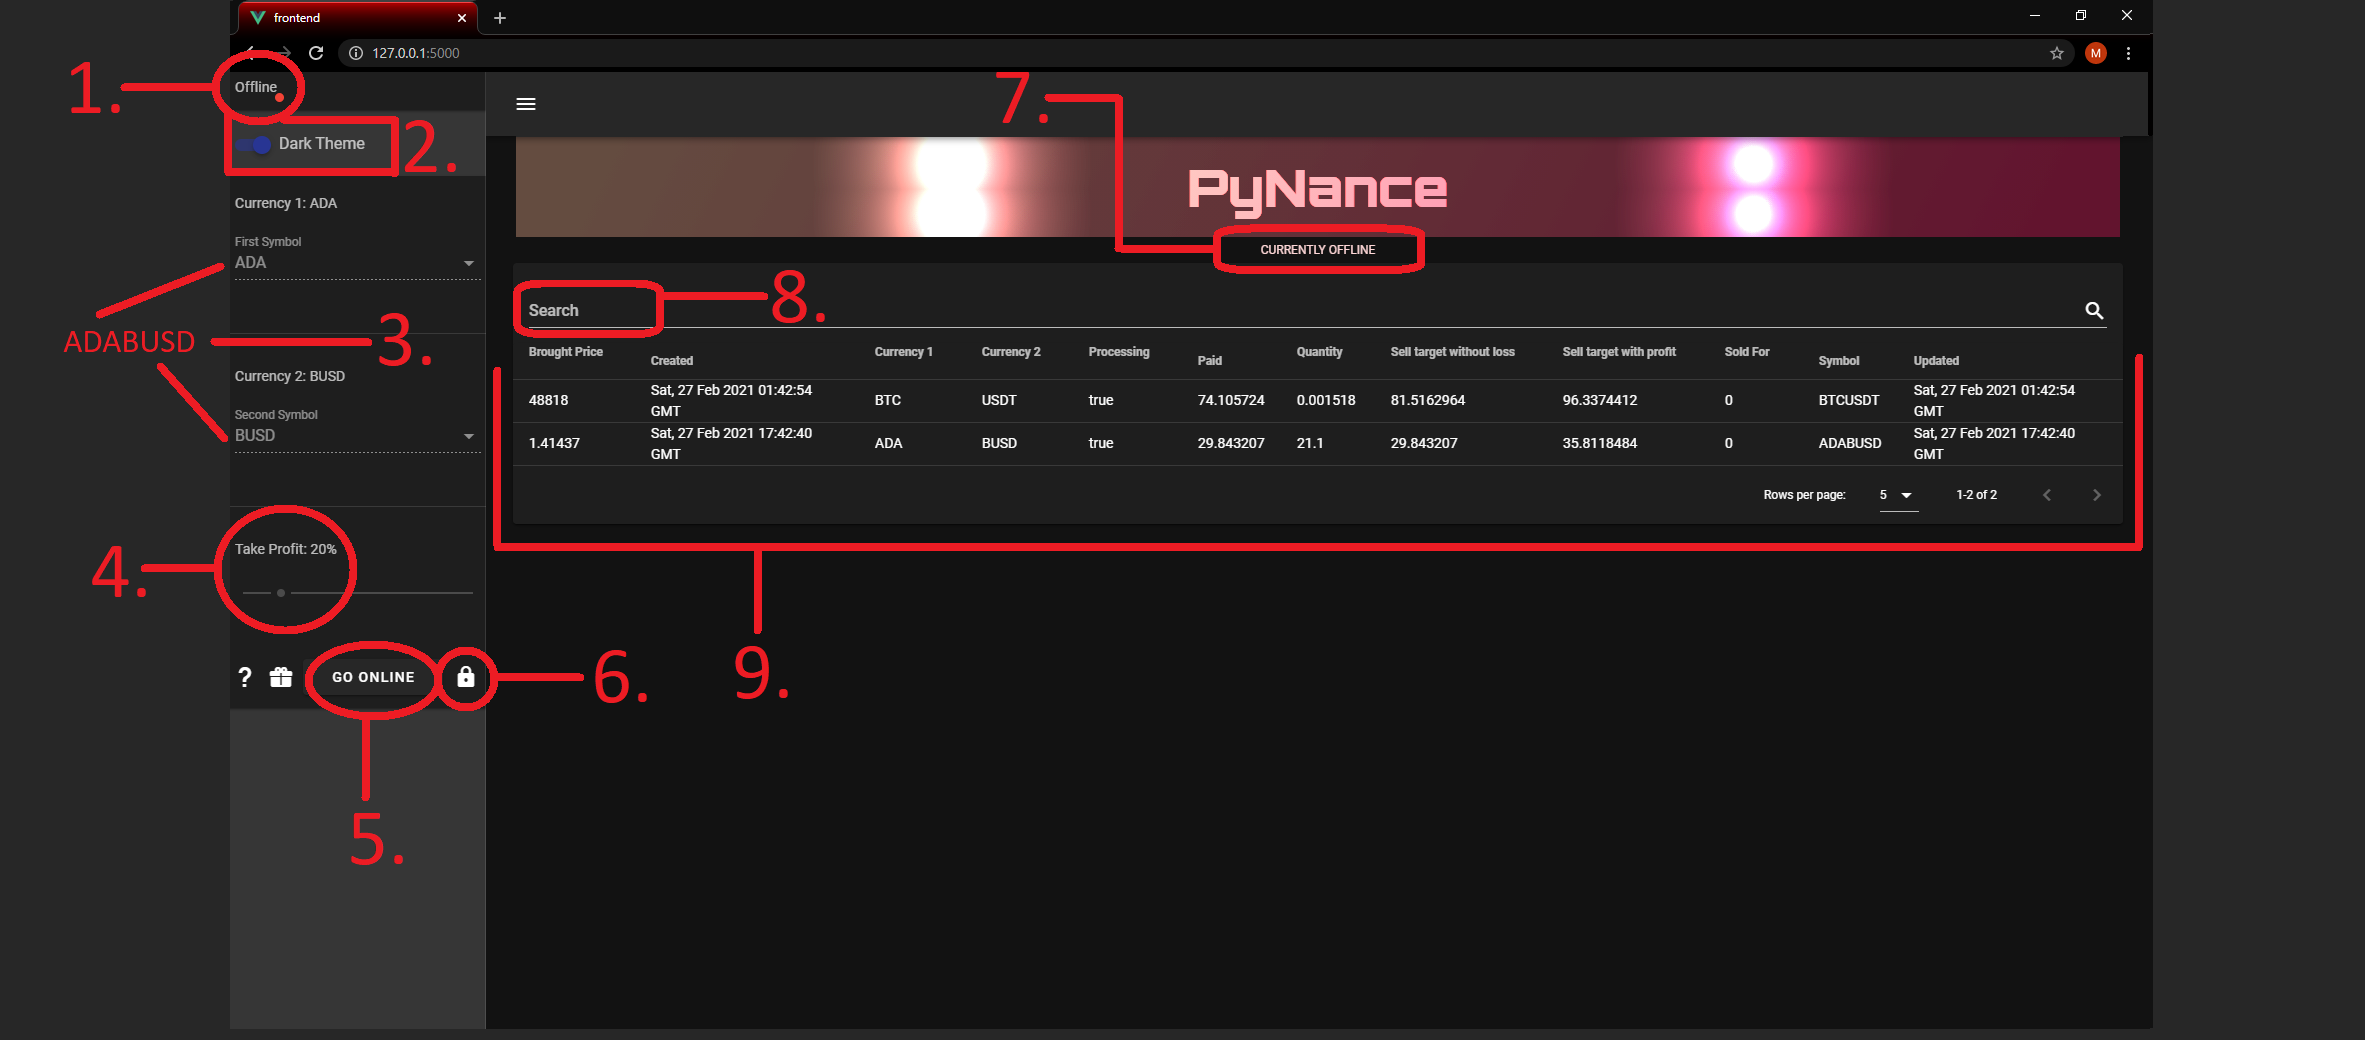
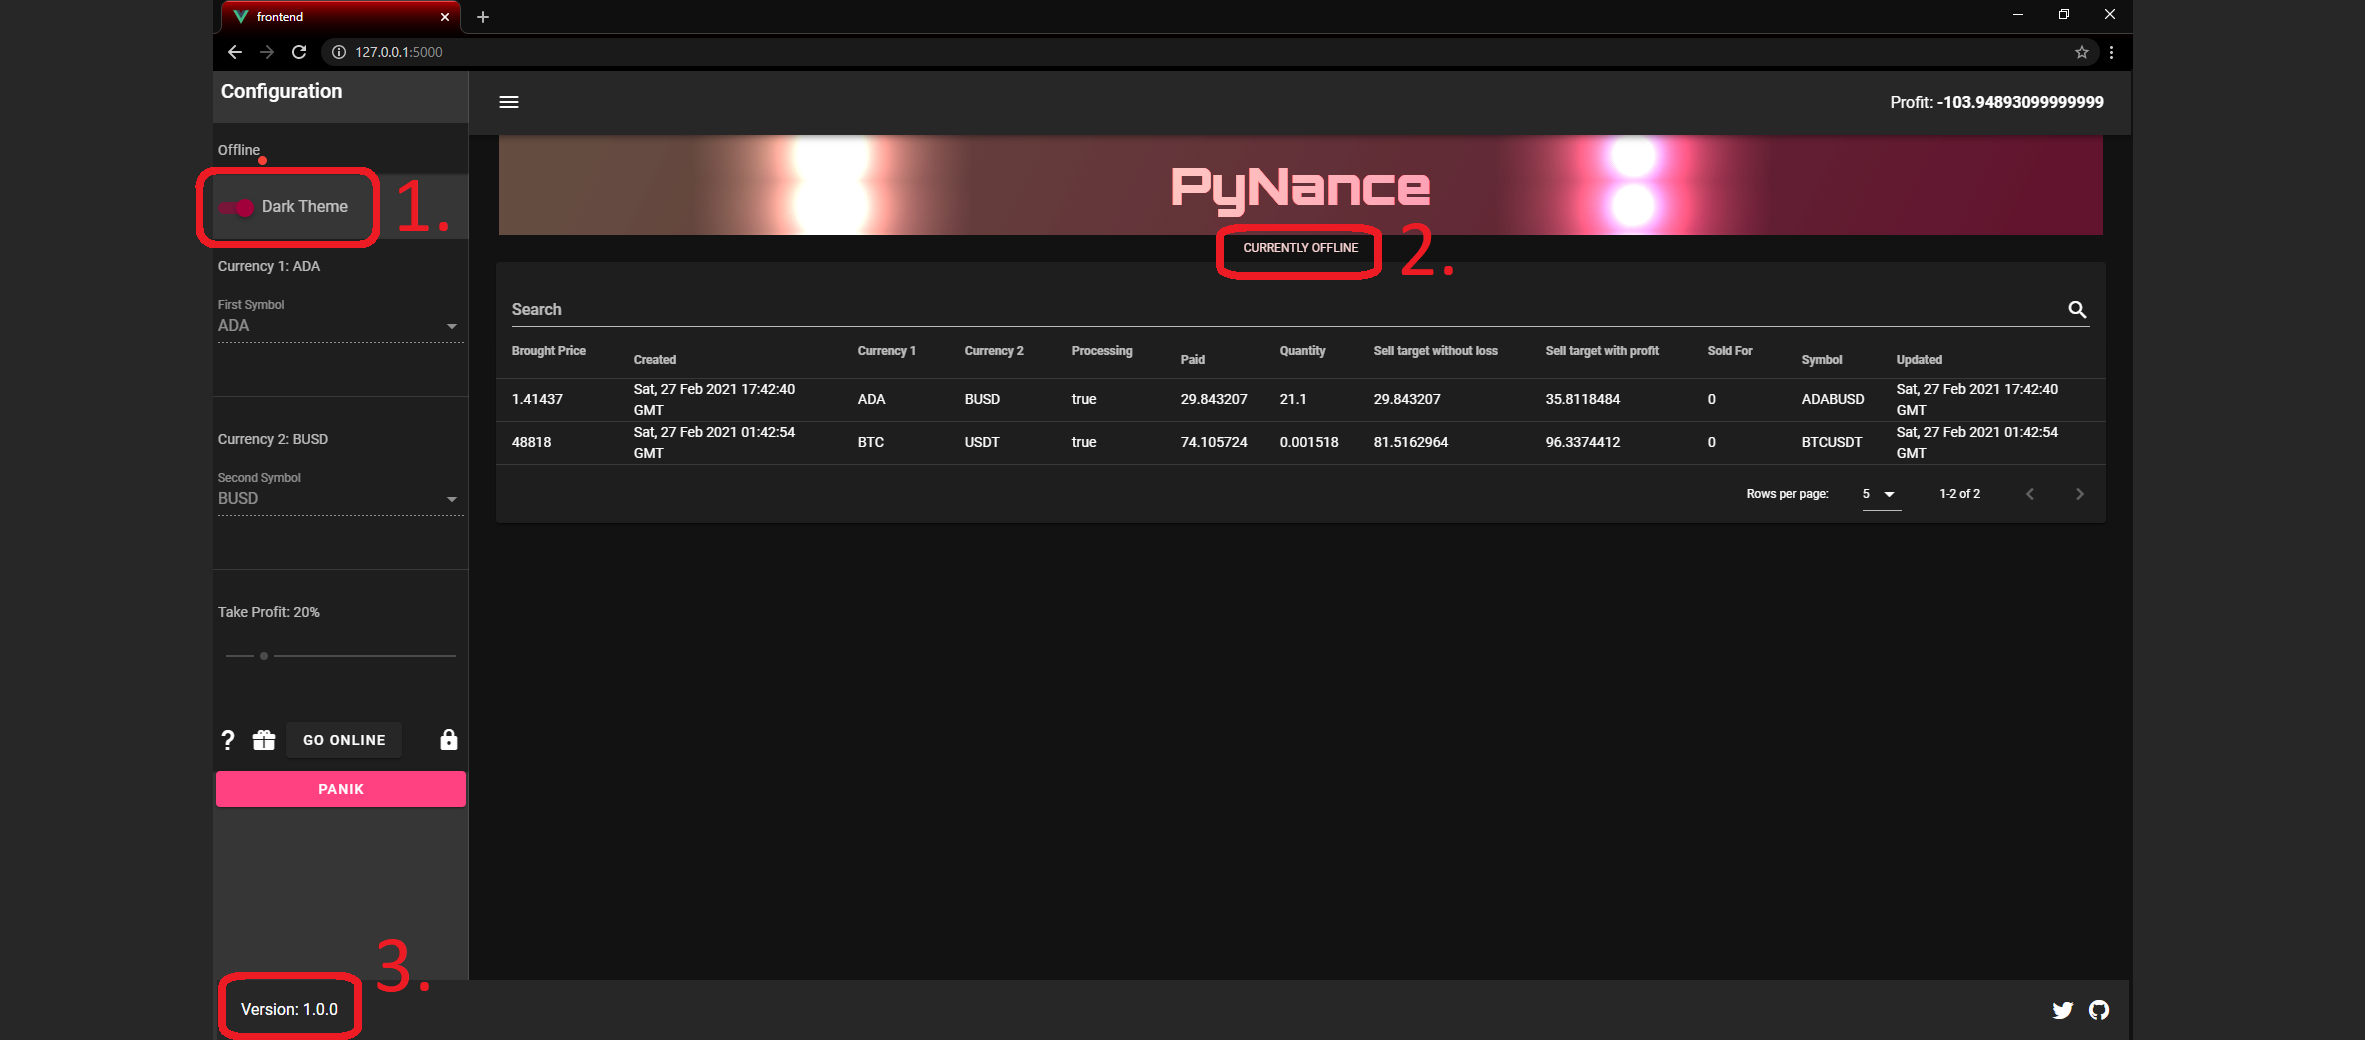
Extended tutorial

diff --git a/frontend/src/components/models/Tutorial.vue b/frontend/src/components/models/Tutorial.vue
@@ -8,13 +8,62 @@
             <v-card tile>
                 <v-card-text>
                     <v-img
+                        v-if="step=='1'"
                         class="mt-5"
                         :lazy-src="require('../../assets/ui_1.png')"
                         :src="require('../../assets/ui_1.png')"
                     ></v-img>
+                    <v-img
+                        v-else-if="step=='2'"
+                        class="mt-5"
+                        :lazy-src="require('../../assets/ui_2.png')"
+                        :src="require('../../assets/ui_2.png')"
+                    ></v-img>
+                    <v-img
+                        v-else-if="step=='3'"
+                        class="mt-5"
+                        :lazy-src="require('../../assets/ui_3.png')"
+                        :src="require('../../assets/ui_3.png')"
+                    ></v-img>
+                    <v-img
+                        v-else-if="step=='4'"
+                        class="mt-5"
+                        :lazy-src="require('../../assets/ui_4.png')"
+                        :src="require('../../assets/ui_4.png')"
+                    ></v-img>
+                    <v-img
+                        v-else-if="step=='5'"
+                        class="mt-5"
+                        :lazy-src="require('../../assets/ui_5.png')"
+                        :src="require('../../assets/ui_5.png')"
+                    ></v-img>
+                    <v-img
+                        v-else-if="step=='6'"
+                        class="mt-5"
+                        :lazy-src="require('../../assets/ui_6.png')"
+                        :src="require('../../assets/ui_6.png')"
+                    ></v-img>
+                    <v-img
+                        v-else-if="step=='7'"
+                        class="mt-5"
+                        :lazy-src="require('../../assets/ui_7.png')"
+                        :src="require('../../assets/ui_7.png')"
+                    ></v-img>
+                    <v-img
+                        v-else-if="step=='8'"
+                        class="mt-5"
+                        :lazy-src="require('../../assets/ui_8.png')"
+                        :src="require('../../assets/ui_8.png')"
+                    ></v-img>
+                    <v-img
+                        v-else-if="step=='9'"
+                        class="mt-5"
+                        :lazy-src="require('../../assets/ui_9.png')"
+                        :src="require('../../assets/ui_9.png')"
+                    ></v-img>
                     <b-container>
                         <p
-                            v-for="(item, i) in tutorial_data"
+                            v-for="(item, i) in tutorial_data[$data.step]"
                             :key="i"
                         >
                             {{item.number}}. {{ item.description }}
@@ -23,6 +72,16 @@
 
                 </v-card-text>
                 <v-card-actions class="justify-end">
+                    <v-btn
+                        text
+                        v-if="parseInt(step) > 1"
+                        @click="previous_step"
+                    >Previous</v-btn>
+                    <v-btn
+                        text
+                        v-if="parseInt(step) < 9"
+                        @click="next_step"
+                    >Next</v-btn>
                     <v-btn
                         text
                         @click="dialog.value = false"
@@ -37,18 +96,51 @@
     function initialState (){
         return {
             loading: false,
-            tutorial_data: [
-                {"number": 1, "description": "This indicator shows if the bot is currently trading. All trades are halted when the bot is offline."},
-                {"number": 2, "description": "If you would like to burn your eyes you could turn off dark mode."},
-                {"number": 3, "description": "The two values selected will be glued together to form the symbol which the bot uses to trade."},
-                {"number": 4, "description": "This percentage is the guaranteed profit margin the bot uses before the bot sells its coins."},
-                {"number": 5, "description": "You can use this button to toggle the bot on/off."},
-                {"number": 6, "description": "Before changing the settings, you need to unlock the settings by using this button. Changes have immediate effect."},
-                {"number": 7, "description": "Displays the current status of the bot."},
-                {"number": 8, "description": "You can use the search field to search through your order history."},
-                {"number": 9, "description": "This is your order history. You can filter by clicking on the columns if you like too."},
-            ],
-            model: 1
+            tutorial_data: {
+                "1": [
+                    {"number": 1, "description": "If you would like to burn your eyes you could turn off dark mode."},
+                    {"number": 2, "description": "Displays the current status of the bot."},
+                    {"number": 3, "description": "Shows the current version of PyNance-Webinterface."},
+                ],
+                "2": [
+                    {"number": 1, "description": "The two values configured here will be glued together to form the \"symbol\" which the bot uses to trade with."},
+                    {"number": 2, "description": "If a symbol doesn't exists the bot will turn off and keeps the status 'offline'."},
+                ],
+                "3": [
+                    {"number": 1, "description": "This percentage is the guaranteed profit margin the bot uses before the bot sells its coins."},
+                    {"number": 2, "description": "The margin will also be used to calculate the quantity to buy coins with."},
+                    {"number": 3, "description": "This configuration can only be edited when the configuration panel is unlocked"},
+                ],
+                "4": [
+                    {"number": 1, "description": "You can unlock the configuration panel with the highlighted button"},
+                    {"number": 2, "description": "Changes made when the control panel is unlocked take immediate effect."},
+                    {"number": 3, "description": "When changes take place the bot will turn itself off with the offline status."},
+                ],
+                "5": [
+                    {"number": 1, "description": "This indicator shows the online status of the bot."},
+                    {"number": 2, "description": "You can turn the bot off/on by pressing the highlighted button."},
+                ],
+                "6": [
+                    {"number": 1, "description": "Profits are shown in the top right corner."},
+                    {"number": 2, "description": "Profits are calculated across all orders which the bot has placed."},
+                    {"number": 3, "description": "Based on the total amount paid minus the total amount we sold it for."},
+                ],
+                "7": [
+                    {"number": 1, "description": "In need to FOMO? The Panik button is just for you. (see highlighted button)."},
+                    {"number": 2, "description": "When Panik is active the bot will sell of its tokens if the 'current price  is higher then the 'sell target without loss'."},
+                    {"number": 3, "description": "When active it also prevents the bot from buying new tokens which allows you to go full FOMO."},
+                ],
+                "8": [
+                    {"number": 1, "description": "The search bar allows you to quickly search through orders the bot has places previously."},
+                    {"number": 2, "description": "Contains useful information about orders the bot has placed. The column 'Sell target with profit' is updated based on the 'Take Profit'."},
+                ],
+                "9": [
+                    {"number": 1, "description": "If you like my work you could give me a follow, or share my content!"},
+                    {"number": 2, "description": "Still in need to show more gratitude?, consider donating! That allows me to maintain such kind of projects."},
+                ],
+            },
+            model: 1,
+            step: "1"
         }
     }
 
@@ -80,6 +172,14 @@
             handleSubmit(event) {
                 event.preventDefault(); // Prevents closing (TODO)
                 this.handleClose();
+            },
+            previous_step(){
+                let value = parseInt(this.$data.step) - 1;
+                this.$data.step = value.toString();
+            },
+            next_step(){
+                let value = parseInt(this.$data.step) + 1;
+                this.$data.step = value.toString();
             },
             handleClose(forceClose=false) {
                 if(forceClose != true)
